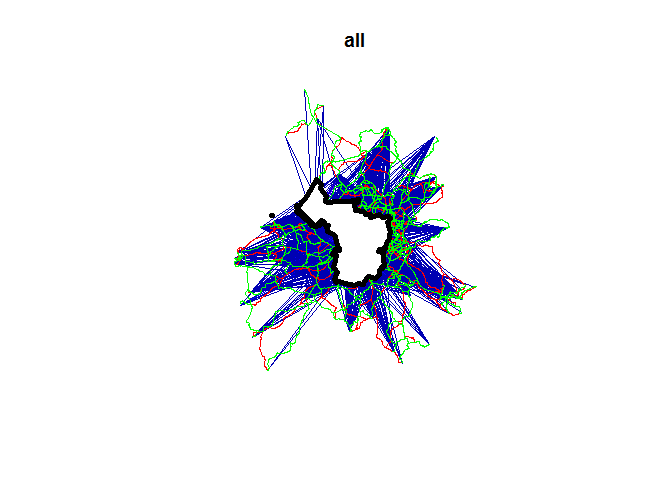
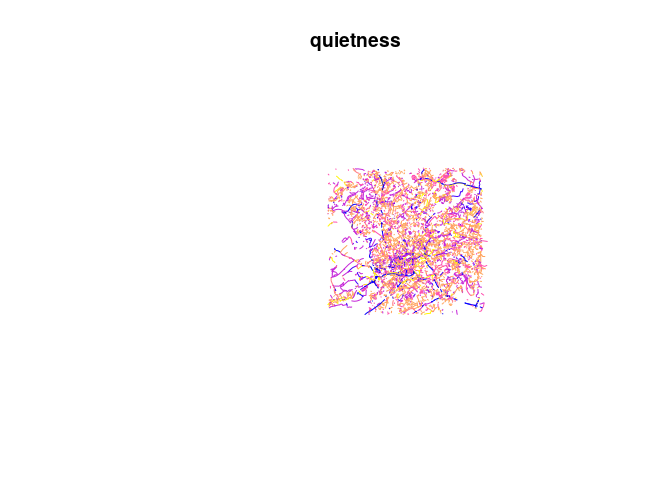
Improve data handling in model script

Changed region(s): [[0.3438, 0.1875, 0.7188, 0.75], [0.4375, 0.0625, 0.5938, 0.125], [0.4062, 0.7188, 0.4375, 0.75]]

diff --git a/model-uptake.md b/model-uptake.md
@@ -35,31 +35,41 @@ The input data comes from 3 main sources:
 
 ``` r
 lfq = readRDS("../example-data/bristol/lfq.Rds")
-plot(lfq$l[6])
-plot(lfq$rf[1], add = T, col = "red")
-plot(lfq$rq[1], add = T, col = "green")
-plot(region[1], col = "white", lwd = 5, add = T)
+# plot(lfq$l[6])
+# plot(lfq$rf[1], add = T, col = "red")
+# plot(lfq$rq[1], add = T, col = "green")
+# plot(region[1], col = "white", lwd = 5, add = T)
 ```
 
-![](model-uptake_files/figure-markdown_github/unnamed-chunk-6-1.png)
-
--   OSM data, which can be downloaded using the osmdata R package. We have saved the osm route network in the highways tab.
+-   OSM data, which can be downloaded using the osmdata R package. We have saved the osm route network already:
 
 ``` r
 osm_data = readRDS("../example-data/bristol/osm-all-highways.Rds")
-ways = osm_data$osm_
+ways = osm_data$osm_lines
+ways$osm_id = as.integer(as.character(ways$osm_id))
+sel = sample(nrow(ways), 10000)
+plot(ways[sel, "highway"])
 ```
 
--   Data created by the CyIPT project, which provides data on the current road network from the perspective of cycling.
+![](model-uptake_files/figure-markdown_github/unnamed-chunk-7-1.png)
+
+-   Data created by the CyIPT project, which provides data on the current road network from the perspective of cycling, including:
 
 ``` r
-osm_lines = readRDS("osm-lines-quietness-full.Rds")
+# Quietness
+quietness = readr::read_csv("input-data/scorings/bristol.csv")
+ways = left_join(ways, quietness, by = c("osm_id" = "id"))
+```
+
+``` r
+# PCU
+# ...
 ```
 
 These can be visualised as follows, with a sample of 5 routes overlaid on a sample of 1000 OSM line elements:
 
 ``` r
-plot(osm_lines[sample(x = nrow(osm_lines), size = 1000), 1])
+plot(ways[sel, "quietness"])
 plot(lfq$l[1:5, 6], add = T, col = "black")
 plot(lfq$rf[1:5, 6], add = T, col = "red", lwd = 3)
 plot(lfq$rq[1:5, 6], add = T, col = "green")
